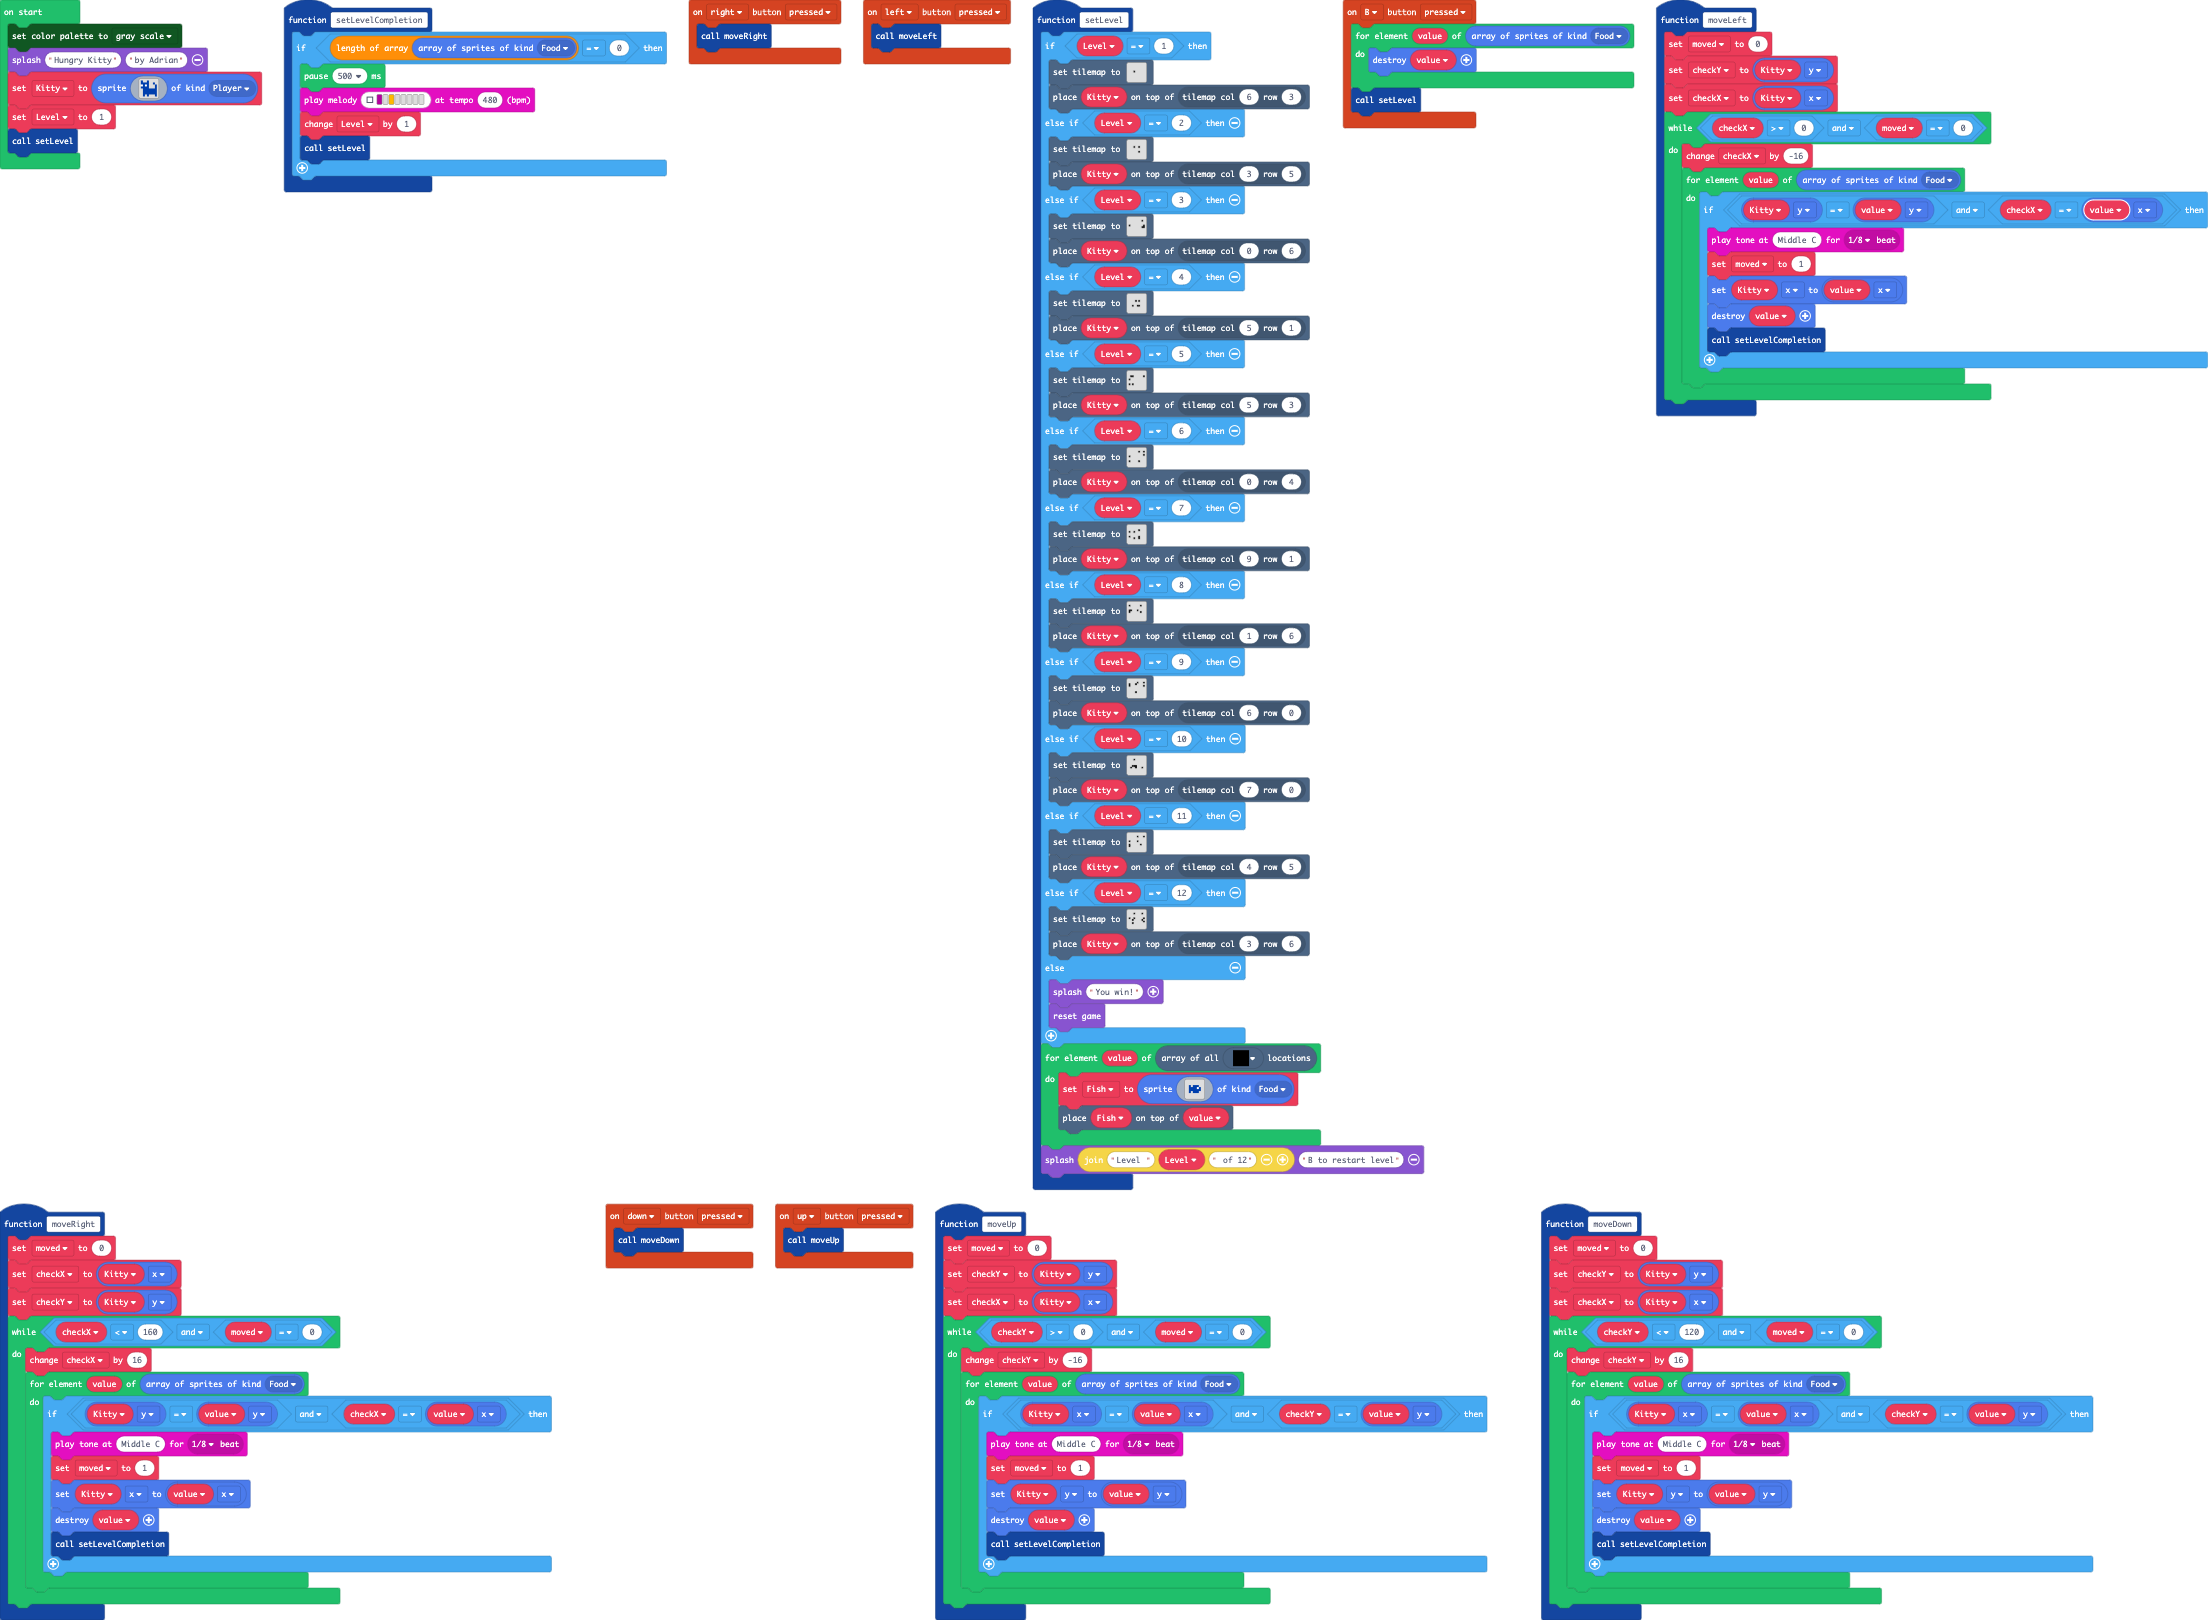
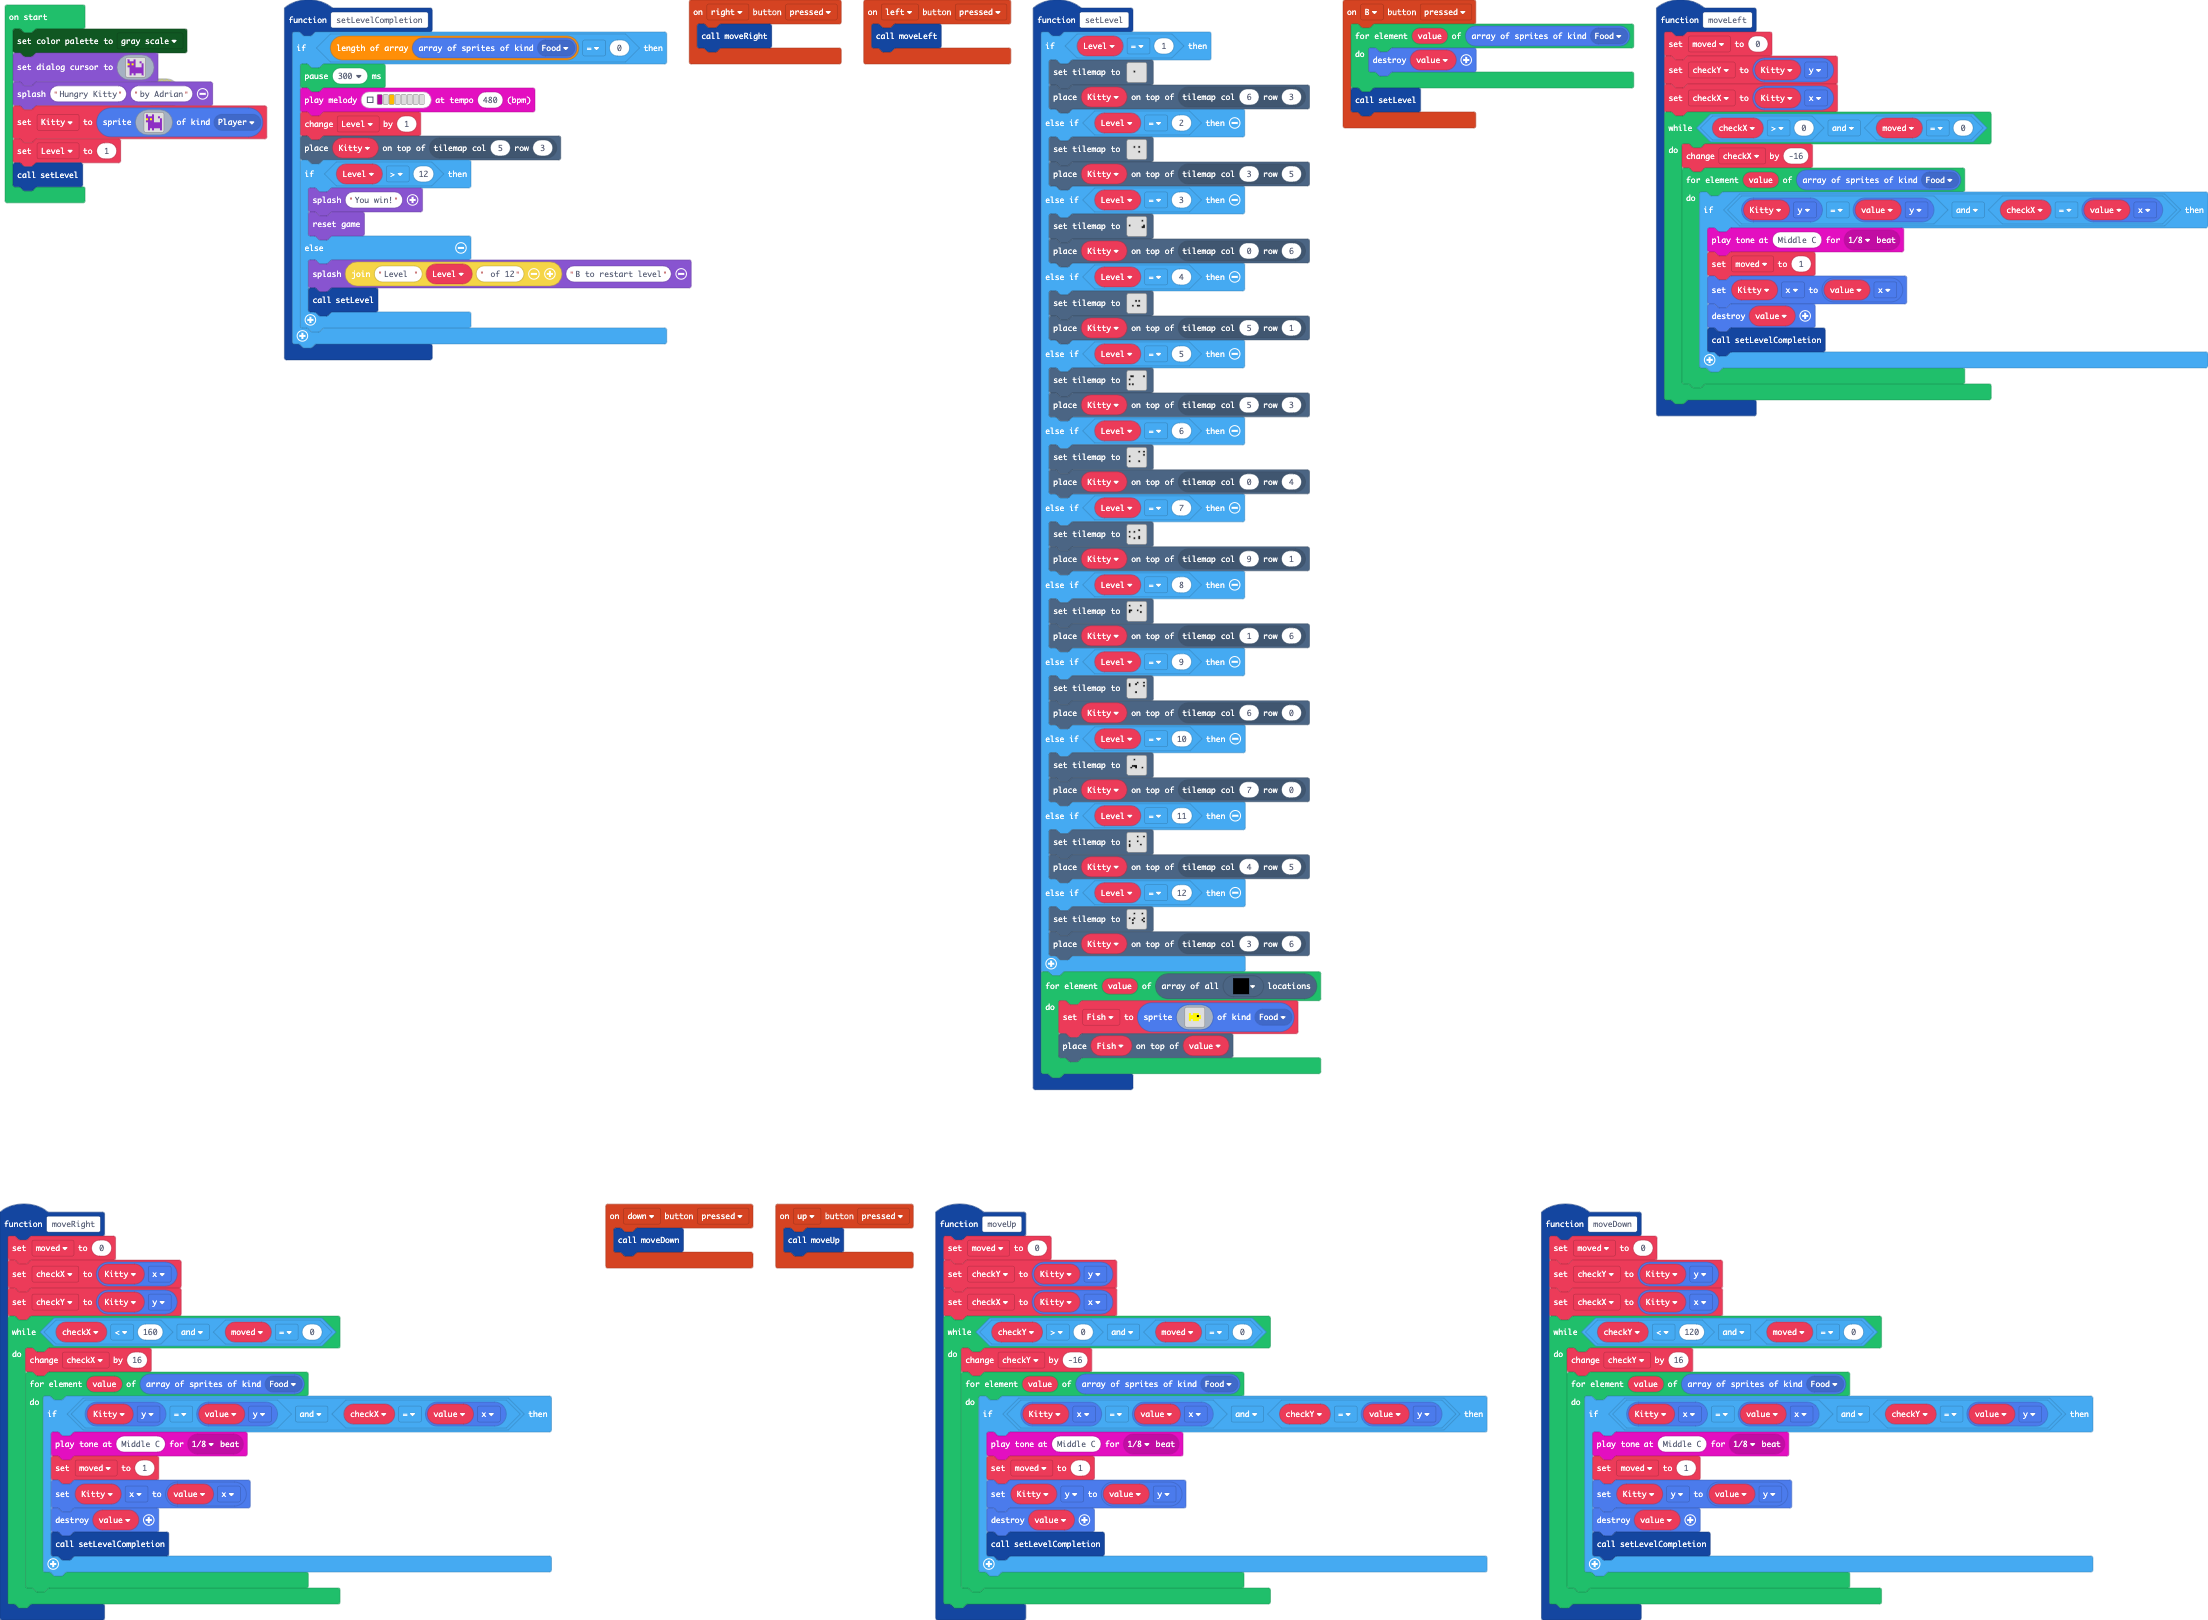
Update main.blocks, main.ts

Changed region(s): [[0.0, 0.0, 0.3125, 0.2469], [0.4688, 0.5864, 0.6562, 0.7407]]

diff --git a/main.ts b/main.ts
@@ -262,9 +262,6 @@ function setLevel () {
             TileScale.Sixteen
         ))
         tiles.placeOnTile(Kitty, tiles.getTileLocation(3, 6))
-    } else {
-        game.splash("You win!")
-        game.reset()
     }
     for (let value of tiles.getTilesByType(myTiles.tile1)) {
         Fish = sprites.create(img`
@@ -272,14 +269,14 @@ function setLevel () {
 . . . . . . . . . . . . . . . . 
 . . . . . . . . . . . . . . . . 
 . . . . . . . . . . . . . . . . 
-. . 8 8 . . 8 8 8 8 8 8 . . . . 
-. . 8 8 . . 8 8 8 8 8 8 . . . . 
-. . 8 8 8 8 8 8 8 8 1 1 8 8 . . 
-. . 8 8 8 8 8 8 8 8 1 1 8 8 . . 
-. . 8 8 8 8 8 8 8 8 8 8 8 8 . . 
-. . 8 8 8 8 8 8 8 8 8 8 8 8 . . 
-. . 8 8 . . 8 8 8 8 8 8 . . . . 
-. . 8 8 . . 8 8 8 8 8 8 . . . . 
+. . 5 5 . . 5 5 5 5 5 5 . . . . 
+. . 5 5 . . 5 5 5 5 5 5 . . . . 
+. . 5 5 5 5 5 5 5 5 f f 5 5 . . 
+. . 5 5 5 5 5 5 5 5 f f 5 5 . . 
+. . 5 5 5 5 5 5 5 5 5 5 5 5 . . 
+. . 5 5 5 5 5 5 5 5 5 5 5 5 . . 
+. . 5 5 . . 5 5 5 5 5 5 . . . . 
+. . 5 5 . . 5 5 5 5 5 5 . . . . 
 . . . . . . . . . . . . . . . . 
 . . . . . . . . . . . . . . . . 
 . . . . . . . . . . . . . . . . 
@@ -287,7 +284,6 @@ function setLevel () {
 `, SpriteKind.Food)
         tiles.placeOnTile(Fish, value)
     }
-    game.splash("Level " + Level + " of 12", "B to restart level")
 }
 function moveRight () {
     moved = 0
@@ -357,10 +353,17 @@ controller.right.onEvent(ControllerButtonEvent.Pressed, function () {
 })
 function setLevelCompletion () {
     if (sprites.allOfKind(SpriteKind.Food).length == 0) {
-        pause(500)
+        pause(300)
         music.playMelody("C - A - - - - - ", 480)
         Level += 1
-        setLevel()
+        tiles.placeOnTile(Kitty, tiles.getTileLocation(5, 3))
+        if (Level > 12) {
+            game.splash("You win!")
+            game.reset()
+        } else {
+            game.splash("Level " + Level + " of 12", "B to restart level")
+            setLevel()
+        }
     }
 }
 controller.up.onEvent(ControllerButtonEvent.Pressed, function () {
@@ -392,24 +395,42 @@ let Kitty: Sprite = null
 color.setPalette(
 color.GrayScale
 )
+game.setDialogCursor(img`
+a a . . . . a a . . . . . . . . 
+a a . . . . a a . . . . . . . . 
+a a a a a a a a . . . . a a . . 
+a a a a a a a a . . . . a a . . 
+5 5 a a 5 5 a a . . . . . . a a 
+5 5 a a 5 5 a a . . . . . . a a 
+a a a a a a a a . . . . . . a a 
+a a a a a a a a . . . . . . a a 
+. . a a a a a a a a a a a a a a 
+. . a a a a a a a a a a a a a a 
+. . a a a a a a a a a a a a a a 
+. . a a a a a a a a a a a a a a 
+. . a a a a a a a a a a a a a a 
+. . a a a a a a a a a a a a a a 
+. . a a . . a a . . . . . . a a 
+. . a a . . a a . . . . . . a a 
+`)
 game.splash("Hungry Kitty", "by Adrian")
 Kitty = sprites.create(img`
-8 8 . . . . 8 8 . . . . . . . . 
-8 8 . . . . 8 8 . . . . . . . . 
-8 8 8 8 8 8 8 8 . . . . 8 8 . . 
-8 8 8 8 8 8 8 8 . . . . 8 8 . . 
-1 1 8 8 1 1 8 8 . . . . . . 8 8 
-1 1 8 8 1 1 8 8 . . . . . . 8 8 
-8 8 8 8 8 8 8 8 . . . . . . 8 8 
-8 8 8 8 8 8 8 8 . . . . . . 8 8 
-. . 8 8 8 8 8 8 8 8 8 8 8 8 8 8 
-. . 8 8 8 8 8 8 8 8 8 8 8 8 8 8 
-. . 8 8 8 8 8 8 8 8 8 8 8 8 8 8 
-. . 8 8 8 8 8 8 8 8 8 8 8 8 8 8 
-. . 8 8 8 8 8 8 8 8 8 8 8 8 8 8 
-. . 8 8 8 8 8 8 8 8 8 8 8 8 8 8 
-. . 8 8 . . 8 8 . . . . . . 8 8 
-. . 8 8 . . 8 8 . . . . . . 8 8 
+a a . . . . a a . . . . . . . . 
+a a . . . . a a . . . . . . . . 
+a a a a a a a a . . . . a a . . 
+a a a a a a a a . . . . a a . . 
+5 5 a a 5 5 a a . . . . . . a a 
+5 5 a a 5 5 a a . . . . . . a a 
+a a a a a a a a . . . . . . a a 
+a a a a a a a a . . . . . . a a 
+. . a a a a a a a a a a a a a a 
+. . a a a a a a a a a a a a a a 
+. . a a a a a a a a a a a a a a 
+. . a a a a a a a a a a a a a a 
+. . a a a a a a a a a a a a a a 
+. . a a a a a a a a a a a a a a 
+. . a a . . a a . . . . . . a a 
+. . a a . . a a . . . . . . a a 
 `, SpriteKind.Player)
 Level = 1
 setLevel()
